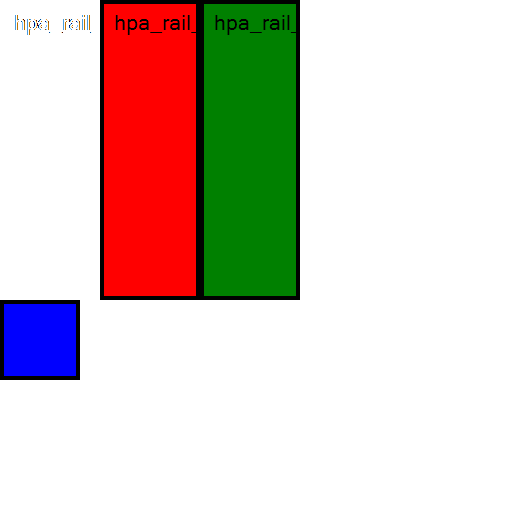
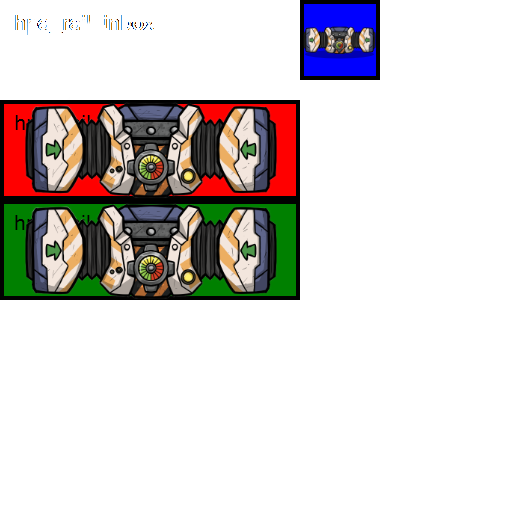
Hysteresis Storage Integration

diff --git a/RonivansLegacy_ChemicalProcessing/Content/ModDb/ModIntegrations/HysteresisStorage.cs b/RonivansLegacy_ChemicalProcessing/Content/ModDb/ModIntegrations/HysteresisStorage.cs
@@ -1,0 +1,55 @@
+using HarmonyLib;
+using System;
+using System.Collections.Generic;
+using System.Linq;
+using System.Text;
+using System.Threading.Tasks;
+using UnityEngine;
+using UtilLibs;
+
+namespace RonivansLegacy_ChemicalProcessing.Content.ModDb.ModIntegrations
+{
+	/// <summary>
+	/// Integration with the mod HysteresisStorage
+	/// </summary>
+	public static class HysteresisStorage
+	{
+		public static AddComponentDelegate AddComponent_Delegate = null;
+		public delegate void AddComponentDelegate(GameObject go);
+
+		public static void AddComponent(GameObject buildingPrefab)
+		{
+			InitTypes();
+			if (AddComponent_Delegate != null)
+				AddComponent_Delegate(buildingPrefab);
+		}
+		static bool typesInitialized = false;
+		static void InitTypes()
+		{
+			if (typesInitialized) return;
+			typesInitialized = true;
+			var hysteresisStoragePatches = Type.GetType("HysteresisStorage.HysteresisStoragePatches, HysteresisStorage");
+			if (hysteresisStoragePatches == null)
+			{
+				SgtLogger.l("HysteresisStorage types not found.");
+				//UtilMethods.ListAllTypesWithAssemblies();
+				return;
+			}
+			var m_AddComponent = AccessTools.Method(hysteresisStoragePatches, "AddComponent", [typeof(GameObject)]);
+			if (m_AddComponent == null)
+			{
+				SgtLogger.error("HysteresisStoragePatches.AddComponent method not found.");
+				return;
+			}
+			try
+			{
+				AddComponent_Delegate = (AddComponentDelegate)Delegate.CreateDelegate(typeof(AddComponentDelegate), m_AddComponent);
+			}
+			catch (Exception e)
+			{
+				SgtLogger.error("Failure to create AddComponentDelegate for HysteresisStorage component:\n" + e.Message);
+			}
+			SgtLogger.l("HysteresisStorage integration: " + AddComponent_Delegate != null ? "Success" : "Failed");
+		}
+	}
+}

diff --git a/RonivansLegacy_ChemicalProcessing/Content/Defs/Buildings/HighPressureApplications/HPA_Solid/HPAInBoxConfig.cs b/RonivansLegacy_ChemicalProcessing/Content/Defs/Buildings/HighPressureApplications/HPA_Solid/HPAInBoxConfig.cs
@@ -1,5 +1,6 @@
-using RonivansLegacy_ChemicalProcessing.Content.Scripts.Buildings.ConfigInterfaces;
+using RonivansLegacy_ChemicalProcessing.Content.ModDb.ModIntegrations;
 using RonivansLegacy_ChemicalProcessing.Content.Scripts;
+using RonivansLegacy_ChemicalProcessing.Content.Scripts.Buildings.ConfigInterfaces;
 using System;
 using System.Collections.Generic;
 using System.Linq;
@@ -33,7 +34,7 @@ namespace RonivansLegacy_ChemicalProcessing.Content.Defs.Buildings.HighPressureA
 			EffectorValues none = NOISE_POLLUTION.NONE;
 			EffectorValues tieR1 = BUILDINGS.DECOR.PENALTY.TIER1;
 			EffectorValues noise = none;
-			BuildingDef buildingDef = BuildingTemplates.CreateBuildingDef(ID, 1, 3, "hpa_rail_inbox_kanim", 100, 60f, [300, 100], [GameTags.Steel.ToString(), GameTags.Plastic.ToString()], 1600f, BuildLocationRule.Anywhere, tieR1, noise);
+			BuildingDef buildingDef = BuildingTemplates.CreateBuildingDef(ID, 3, 1, "hpa_rail_inbox_kanim", 100, 60f, [300, 100], [GameTags.Steel.ToString(), GameTags.Plastic.ToString()], 1600f, BuildLocationRule.Anywhere, tieR1, noise);
 			buildingDef.RequiresPowerInput = true;
 			buildingDef.EnergyConsumptionWhenActive = GetWattage();
 			buildingDef.ExhaustKilowattsWhenActive = 0.0f;
@@ -78,6 +79,8 @@ namespace RonivansLegacy_ChemicalProcessing.Content.Defs.Buildings.HighPressureA
 			go.AddOrGet<SolidConduitInbox>();
 			go.AddOrGet<ConfigurableSolidConduitDispenser>().massDispensed = Config.Instance.HPA_Capacity_Solid;
 			go.AddOrGet<HPA_SolidConduitRequirement>().RequiresHighPressureOutput = true;
+
+			HysteresisStorage.AddComponent(go);
 		}
 	}
 }

diff --git a/RonivansLegacy_ChemicalProcessing/Content/Defs/Buildings/DupesLogistics/LogisticLoaderConfig.cs b/RonivansLegacy_ChemicalProcessing/Content/Defs/Buildings/DupesLogistics/LogisticLoaderConfig.cs
@@ -1,4 +1,5 @@
-using RonivansLegacy_ChemicalProcessing.Content.Scripts;
+using RonivansLegacy_ChemicalProcessing.Content.ModDb.ModIntegrations;
+using RonivansLegacy_ChemicalProcessing.Content.Scripts;
 using RonivansLegacy_ChemicalProcessing.Content.Scripts.Buildings.ConfigInterfaces;
 using System;
 using System.Collections.Generic;
@@ -68,6 +69,8 @@ namespace RonivansLegacy_ChemicalProcessing.Content.Defs.Buildings.DupesLogistic
 			var requirement = go.AddOrGet<HPA_SolidConduitRequirement>();
 			requirement.RequiresHighPressureOutput = true;
 			requirement.IsLogisticRail = true;
+
+			HysteresisStorage.AddComponent(go);
 		}
 
 		public override void DoPostConfigureUnderConstruction(GameObject go)

diff --git a/RonivansLegacy_ChemicalProcessing/Content/Defs/Buildings/DupesLogistics/StoragePodConfig.cs b/RonivansLegacy_ChemicalProcessing/Content/Defs/Buildings/DupesLogistics/StoragePodConfig.cs
@@ -1,4 +1,5 @@
-using RonivansLegacy_ChemicalProcessing.Content.Scripts.Buildings.ConfigInterfaces;
+using RonivansLegacy_ChemicalProcessing.Content.ModDb.ModIntegrations;
+using RonivansLegacy_ChemicalProcessing.Content.Scripts.Buildings.ConfigInterfaces;
 using STRINGS;
 using System;
 using System.Collections.Generic;
@@ -51,6 +52,8 @@ namespace RonivansLegacy_ChemicalProcessing.Content.Defs.Buildings.DupesLogistic
 			go.AddOrGet<StorageLocker>();
 			go.AddOrGet<UserNameable>();
 			go.AddOrGetDef<RocketUsageRestriction.Def>().restrictOperational = false;
+
+			HysteresisStorage.AddComponent(go);
 		}
 
 		public override void DoPostConfigureComplete(GameObject go)

diff --git a/RonivansLegacy_ChemicalProcessing/Content/Defs/Buildings/DupesRefrigeration/FridgeLargeConfig.cs b/RonivansLegacy_ChemicalProcessing/Content/Defs/Buildings/DupesRefrigeration/FridgeLargeConfig.cs
@@ -1,4 +1,5 @@
 using PeterHan.PLib.Options;
+using RonivansLegacy_ChemicalProcessing.Content.ModDb.ModIntegrations;
 using RonivansLegacy_ChemicalProcessing.Content.Scripts;
 using RonivansLegacy_ChemicalProcessing.Content.Scripts.Buildings.ConfigInterfaces;
 using RonivansLegacy_ChemicalProcessing.Content.Scripts.Descriptors;
@@ -85,6 +86,8 @@ namespace RonivansLegacy_ChemicalProcessing.Content.Defs.Buildings.DupesRefriger
 			go.AddOrGetDef<RocketUsageRestriction.Def>().restrictOperational = false;
 			go.AddOrGetDef<StorageController.Def>();
 			go.AddOrGet<FridgeSaverDescriptor>().Cache();
+
+			HysteresisStorage.AddComponent(go);
 		}
 	}
 }

diff --git a/RonivansLegacy_ChemicalProcessing/Content/Defs/Buildings/DupesRefrigeration/FridgePodConfig.cs b/RonivansLegacy_ChemicalProcessing/Content/Defs/Buildings/DupesRefrigeration/FridgePodConfig.cs
@@ -1,4 +1,5 @@
 using PeterHan.PLib.Options;
+using RonivansLegacy_ChemicalProcessing.Content.ModDb.ModIntegrations;
 using RonivansLegacy_ChemicalProcessing.Content.Scripts;
 using RonivansLegacy_ChemicalProcessing.Content.Scripts.Buildings.ConfigInterfaces;
 using RonivansLegacy_ChemicalProcessing.Content.Scripts.Descriptors;
@@ -85,6 +86,7 @@ namespace RonivansLegacy_ChemicalProcessing.Content.Defs.Buildings.DupesRefriger
 			go.AddOrGetDef<RocketUsageRestriction.Def>().restrictOperational = false;
 			go.AddOrGetDef<StorageController.Def>();
 			go.AddOrGet<FridgeSaverDescriptor>().Cache();
+			HysteresisStorage.AddComponent(go);
 		}
 	}
 }

diff --git a/RonivansLegacy_ChemicalProcessing/Content/Defs/Buildings/DupesRefrigeration/FridgeSmallConfig.cs b/RonivansLegacy_ChemicalProcessing/Content/Defs/Buildings/DupesRefrigeration/FridgeSmallConfig.cs
@@ -1,4 +1,5 @@
 using PeterHan.PLib.Options;
+using RonivansLegacy_ChemicalProcessing.Content.ModDb.ModIntegrations;
 using RonivansLegacy_ChemicalProcessing.Content.Scripts;
 using RonivansLegacy_ChemicalProcessing.Content.Scripts.Buildings.ConfigInterfaces;
 using RonivansLegacy_ChemicalProcessing.Content.Scripts.Descriptors;
@@ -85,6 +86,7 @@ namespace RonivansLegacy_ChemicalProcessing.Content.Defs.Buildings.DupesRefriger
 			go.AddOrGetDef<RocketUsageRestriction.Def>().restrictOperational = false;
 			go.AddOrGetDef<StorageController.Def>();
 			go.AddOrGet<FridgeSaverDescriptor>().Cache();
+			HysteresisStorage.AddComponent(go);
 		}
 	}
 }

diff --git a/RonivansLegacy_ChemicalProcessing/Content/Defs/Buildings/DupesRefrigeration/HightechBigFridgeConfig.cs b/RonivansLegacy_ChemicalProcessing/Content/Defs/Buildings/DupesRefrigeration/HightechBigFridgeConfig.cs
@@ -1,4 +1,5 @@
 using PeterHan.PLib.Options;
+using RonivansLegacy_ChemicalProcessing.Content.ModDb.ModIntegrations;
 using RonivansLegacy_ChemicalProcessing.Content.Scripts;
 using RonivansLegacy_ChemicalProcessing.Content.Scripts.Buildings.ConfigInterfaces;
 using RonivansLegacy_ChemicalProcessing.Content.Scripts.Descriptors;
@@ -125,6 +126,7 @@ namespace RonivansLegacy_ChemicalProcessing.Content.Defs.Buildings.DupesRefriger
 			waterInput.AssignPort(WaterConsumer);
 			AttachPort(go);
 			go.AddOrGet<FridgeSaverDescriptor>().Cache();
+			HysteresisStorage.AddComponent(go);
 
 		}
 		private void AttachPort(GameObject go)

diff --git a/RonivansLegacy_ChemicalProcessing/Content/Defs/Buildings/DupesRefrigeration/HightechSmallFridgeConfig.cs b/RonivansLegacy_ChemicalProcessing/Content/Defs/Buildings/DupesRefrigeration/HightechSmallFridgeConfig.cs
@@ -1,4 +1,5 @@
 using PeterHan.PLib.Options;
+using RonivansLegacy_ChemicalProcessing.Content.ModDb.ModIntegrations;
 using RonivansLegacy_ChemicalProcessing.Content.Scripts;
 using RonivansLegacy_ChemicalProcessing.Content.Scripts.Buildings.ConfigInterfaces;
 using RonivansLegacy_ChemicalProcessing.Content.Scripts.Descriptors;
@@ -93,6 +94,7 @@ namespace RonivansLegacy_ChemicalProcessing.Content.Defs.Buildings.DupesRefriger
 			inputs.requireConduitHasMass = false;
 			inputs.requireConduit = false;
 			go.AddOrGet<FridgeSaverDescriptor>().Cache();
+			HysteresisStorage.AddComponent(go);
 		}
 	}
 }

diff --git a/RonivansLegacy_ChemicalProcessing/Content/Defs/Buildings/DupesLogistics/CabinetNormalConfig.cs b/RonivansLegacy_ChemicalProcessing/Content/Defs/Buildings/DupesLogistics/CabinetNormalConfig.cs
@@ -1,4 +1,5 @@
-using RonivansLegacy_ChemicalProcessing.Content.Scripts;
+using RonivansLegacy_ChemicalProcessing.Content.ModDb.ModIntegrations;
+using RonivansLegacy_ChemicalProcessing.Content.Scripts;
 using RonivansLegacy_ChemicalProcessing.Content.Scripts.Buildings.ConfigInterfaces;
 using System;
 using System.Collections.Generic;
@@ -53,6 +54,8 @@ namespace RonivansLegacy_ChemicalProcessing.Content.Defs.Buildings.DupesLogistic
 
 			//filtered solid conduit input
 			go.AddOrGet<FilteredSolidConduitConsumer>();
+
+			HysteresisStorage.AddComponent(go);
 		}
 	}
 }

diff --git a/RonivansLegacy_ChemicalProcessing/Content/Defs/Buildings/DupesRefrigeration/SpaceBoxConfig.cs b/RonivansLegacy_ChemicalProcessing/Content/Defs/Buildings/DupesRefrigeration/SpaceBoxConfig.cs
@@ -1,4 +1,5 @@
 using PeterHan.PLib.Options;
+using RonivansLegacy_ChemicalProcessing.Content.ModDb.ModIntegrations;
 using RonivansLegacy_ChemicalProcessing.Content.Scripts.Buildings.ConfigInterfaces;
 using System;
 using System.Collections.Generic;
@@ -74,6 +75,7 @@ namespace RonivansLegacy_ChemicalProcessing.Content.Defs.Buildings.DupesRefriger
 			go.AddOrGet<RationBox>();
 			go.AddOrGet<UserNameable>();
 			go.GetComponent<KPrefabID>().AddTag(GameTags.RocketInteriorBuilding, false);
+			HysteresisStorage.AddComponent(go);
 		}
 	}
 }

diff --git a/RonivansLegacy_ChemicalProcessing/Content/Defs/Buildings/DupesLogistics/CabinetFrozenConfig.cs b/RonivansLegacy_ChemicalProcessing/Content/Defs/Buildings/DupesLogistics/CabinetFrozenConfig.cs
@@ -1,5 +1,6 @@
 using PeterHan.PLib.Options;
 using ProcGen;
+using RonivansLegacy_ChemicalProcessing.Content.ModDb.ModIntegrations;
 using RonivansLegacy_ChemicalProcessing.Content.Scripts;
 using RonivansLegacy_ChemicalProcessing.Content.Scripts.Buildings.ConfigInterfaces;
 using System;
@@ -73,6 +74,8 @@ namespace RonivansLegacy_ChemicalProcessing.Content.Defs.Buildings.DupesLogistic
 
 			//filtered solid conduit input
 			go.AddOrGet<FilteredSolidConduitConsumer>();
+
+			HysteresisStorage.AddComponent(go);
 		}
 	}
 }
